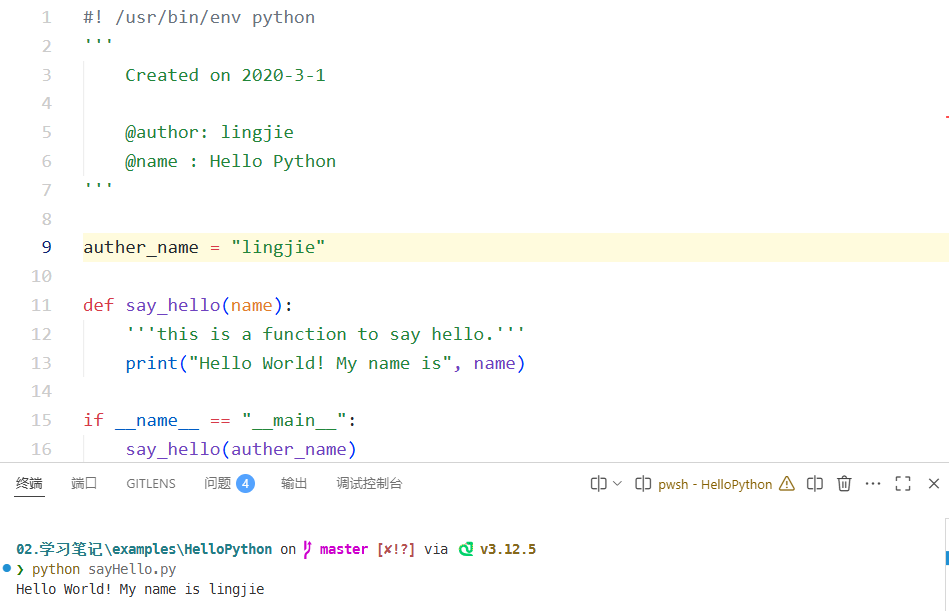
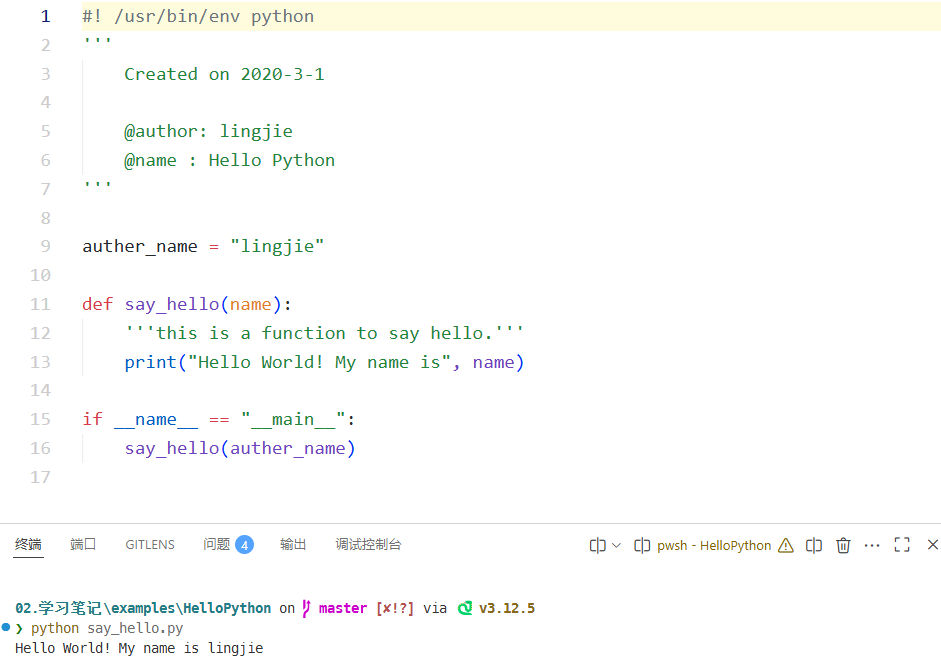
'开始重新整理Python学习笔记，第三天'

diff --git a/02_编程技术研究/00.计算机语言/01.编程语言/Python/02.学习笔记/Python 学习笔记：基本语法.md b/02_编程技术研究/00.计算机语言/01.编程语言/Python/02.学习笔记/Python 学习笔记：基本语法.md
@@ -159,13 +159,17 @@ def say_hello(name):
 
 上述代码在 VS Code 编辑器中的显示效果如下图所示，读者可以看到，我们在`say-hello`函数的作用域中新增了一个名为`message`的变量，给它赋值了一个比较长的字符串，虽然编辑器将其自动换行成了三行内容，但它们在逻辑上依然被视为同一行内容来输出的。
 
-![Python 中的逻辑行](./img/helloPython2.png)
+![Python 中的逻辑行](img/lengthString.png)
 
 ## 对象与数据类型
 
-现在，让我们再来重点关注一下变量的数据类型。在计算机中，如果程序想要对某一块内存空间中数据进行存储和操作，首先要明确的是该空间内数据的存储方式和操作方式。譬如，变量中存储的是数据本身还是数据在内存中的位置？这将决定着这些数据的复制方式。再譬如，变量中的数据可以执行什么操作？是算术运算还是逻辑判断，亦或是文本处理？这就需要我们对这些内存空间中的数据，即变量的值进行归类，譬如用来做算术运算的数据归为一类，用于文本处理的数据则归为另一类，在编程术语上，这些归类被人们约定俗成地称之为“类型（type）”。简而言之，就是变量中的值所属的类型决定了该变量的存储形式及其可以执行的操作。下面，我们具体介绍一下在 Python 中可以使用的数据类型，先从该语言支持的 6 大基本数据类型开始，具体如下。
+现在，让我们再回过头来重点关注一下变量中可以存储的数据类型。在计算机中，如果程序想要对某一块内存空间中数据进行存储和操作，首先要明确的是该空间内数据的存储形式和操作方法。譬如，变量中存储的是数据本身还是数据在内存中的位置？这将决定着这些数据的复制方式。再譬如，变量中的数据可以执行什么操作？是算术运算还是逻辑判断，亦或是文本处理？这就需要我们对这些内存空间中的数据，即变量的值进行归类，譬如用来做算术运算的数据归为一类，用于文本处理的数据则归为另一类，在编程术语上，这些归类被人们约定俗成地称之为“类型（type）”。简而言之，就是变量中的值所属的类型决定了该变量的存储形式及其可以执行的操作。下面，我们具体介绍一下在 Python 中可以使用的数据类型，先从该语言支持的基本数据类型开始。
 
-- **`number`类型**：即数字类型，Python 3.x 主要支持 4 种数字类型的数据，它们分别是：`int`（即整数类型）、`float`（即浮点类型）、`bool`（即布尔类型）、`complex`（即复数类型）。这些数据类型主要用于执行各种数学运算，包括加法、减法、除法、整除、取余、乘法和乘方等，下面是一些操作示例。
+### 基本数据类型
+
+在编程语言中，基本数据类型指的是语言本身内置的、可以直接使用的数据类型。Python 语言中支持的基本数据类型主要有以下六种：
+
+- **`number`类型**：即数字类型，Python 主要支持的数字类型分别是：`int`（整数类型）、`float`（浮点类型）、`bool`（布尔类型）、`complex`（复数类型）。这些数据类型可用于执行各种数学运算，包括加法、减法、除法、整除、取余、乘法和乘方等，下面是一些操作示例：
 
     ```python
     print(3+2)         # 加法运算，输出结果是 5
@@ -179,73 +183,72 @@ def say_hello(name):
 
     *值得一提的是*，Python 在 3.x 版本之后采用了非固定大小的`int`类型，这让它可以自动适应任意大小的整数值（唯一的限制是计算机的可用内存量）。在处理较小的整数时，Python 会使用计算机底层的`int`类型来表示它们。当需要处理较大的整数时，Python 就会自动转换为占用位数更多的表示形式。当然，为了能对较大的整数值执行运算，Python 必须要将这些运算拆解成若干个能直接交给计算机硬件处理的小型运算单元，其拆解过程与我们用笔算的方式来进行长除法运算非常类似。尽管这种运算方式的效率并不高（因为这需要执行更多步骤），但是它们允许 Python 将`int`类型扩展至任意大小。
 
-- **`string`类型**：即字符串类型。在 Python 语言中，字符串就是在单引号、双引号和三引号之间的文字，这些文字中中所有的空格和制表符都照原样保留。在三种字符串的表示方式中，单引号与双引号的作用在大多数时候是一样的，只有当字符串本身的内容中包含单引号时，它就只能用双引号或三引号来表示。而三引号则通常用于表示包含多行文字的字符串，同样的，我们也可以在三引号中自由使用单引号和双引号。在编程活动中，字符串类型的数据主要用于执行各种文本处理操作，包括文本的输入、输出、存储、拼接和截取等，下面是一些操作示例。
+- **`string`类型**：即字符串类型。在 Python 语言中，字符串类型的数据就是由一对单引号、双引号或三引号括住的一段文本信息，这段文本中所有的空格和制表符都照原样保留。在三种字符串的表示方式中，单引号与双引号的作用在大多数时候是一样的，只有当字符串本身的内容中包含单引号时，它就只能用双引号或三引号来表示。而三引号则通常用于表示包含多行文字的字符串，同样的，我们也可以在三引号中自由使用单引号和双引号。在编程活动中，字符串类型的数据主要用于执行各种文本处理操作，包括文本的输入、输出、存储、拼接和截取等，下面是一些操作示例：
 
     ```python
-    name = "lingjie"     # 存储一般的字符串数据
-    I_am = "I'm "        # 存储带单引号的字符串数据
-    # 储存包含多行内容的字符串数据
+    name = "lingjie"                   # 存储一般的字符串数据
+    I_am = "I'm "                      # 存储带单引号的字符串数据
     other = '''
     age:  42
     job: writer
-    '''
-    message = I_am + name + other # 拼接字符串数据并存储
+    '''                                # 存储多行字符串数据
+    message = I_am + name + other      # 拼接字符串数据并存储
     
-    print(message) # 输出变量 message 中存储的字符串数据
-    print(message[0:11]) # 截取变量中的某一段字符串并输出
+    print(message)                     # 输出变量 message 中存储的字符串数据
+    print(message[0:11])               # 截取变量中的某一段字符串并输出
     print(r"Newlines are indicated by \n") # 忽略字符串中的转义字符并输出
     ```
 
     另外，如果读者想要让 Python 运行时环境忽略字符串数据中所有的转义字符，也可以在表示字符串的单引号或双引号之前加一个前缀`r`。例如在上面的最后一行代码中，如果我们希望的是原样输出下面字符串中的换行符`\n`，而不是让它发挥换行效果。
 
-- **`list`类型**：即列表类型。在 Python 语言中，列表类型的对象可以是其他任意对象的有序集合，这些对象会被表示成由一对中括号表示的一系列可按某种顺序排列的元素，这些元素之间用逗号隔开。列表中的元素可以是 Python 中可以使用的任意数据类型，既可以是这里正在介绍的 6 大基本数据类型，也可以之后我们通过自定义或者引入第三方库获得的扩展数据类型。在基于 Python 的编程中，列表类型的数据主要用于执行面向有序集合的数据操作，包括数据成批量地增、删、改、查以及遍历等，下面是一些操作示例。
+- **`list`类型**：即列表类型。在 Python 语言中，列表类型的数据就是由一对中括号括住的对象序列，序列中的这些对象彼此之间需用逗号隔开，通常被称为列表的元素。这些元素可以是 Python 支持的任意数据类型，既可以是这里正在介绍的六大基本数据类型，也可以是我们稍后要介绍的自定义类型，或者通过引入第三方库获得的扩展数据类型。在基于 Python 的编程中，列表类型的数据可用于执行针对一整个元素序列的相关操作，例如成批量地执行增、删、改、查以及排序等操作，下面是一些操作示例：
 
     ```python
-    list_1 = [                  # 将三个对象存储为一个列表类型的数据
-        10,                     # 第一个列表元素为数字类型的数据
-        "string data",          # 第二个列表元素为字符串类型的数据
-        [1, 2, 3]               # 第三个列表元素为列表类型的数据
+    list_1 = [                  # 将三个不同类型的数据存储为列表的元素
+        10,                     # 列表的第一个元素为数字类型的数据
+        "string data",          # 列表的第二个元素为字符串类型的数据
+        [1, 2, 3]               # 列表的第三个元素为列表类型的数据
     ]
-    print(list_1)               # 输出整个列表中的数据
-    print(list_1[1])            # 用列表索引的方式输出指定的元素
-    # 注意，列表元素的索引值是从 0 开始的，所以这里输出的是第二个元素
-    list_1[0] = 100             # 修改制定的元素
+    print(list_1)               # 输出列表中的所有元素
+    print(list_1[1])            # 输出索引值为 1 的元素
+    # 请注意：列表的索引值是从 0 开始的，所以这里输出的是第二个元素
+    list_1[0] = 100             # 将索引值为 0 的元素修改为 100
     list_1.remove([1,2,3])      # 找到并删除列表中的第三个元素
-    print(list_1)               # 重新输出整个列表中的数据
+    print(list_1)               # 重新输出列表中的所有元素
     list_1.append([7, 8, 9])    # 在列表末尾重新添加元素
-    print(list_1)               # 重新输出整个列表中的数据
+    print(list_1)               # 重新输出列表中的所有元素
     ```
 
-- **`tuple`类型**：即元组类型。在 Python 语言中，元组类型的对象可以被视为一个只读的列表类型数据。元组中的元素也可以是任意类型的数据对象，这些对象会被放置在一对小括号中，并用逗号隔开。由于元组中的元素是不可修改的，所以该数据类型通常用于执行一次性的批量数据存储以及各种查找、遍历等只读操作，下面是一些操作示例。
+- **`tuple`类型**：即元组类型。在 Python 语言中，元组类型的数据可以被视为一个只读的列表。元组中的元素也可以是任意类型的数据，这些元素会被放置在一对小括号中，并用逗号隔开。由于元组中的元素是不可修改的，所以该数据类型通常用于执行一次性的批量数据存储以及各种查找、遍历等只读操作，下面是一些操作示例:
 
     ```python
-    tuple_1 = ("abcd", 706, "lyy", 898, 5.2)    # 一次性地存储一些数据
-    print(tuple_1)                              # 输出整个元组中的数据
-    print(tuple_1[0])                           # 用索引的方式输出指定的元素 
-    print(tuple_1[1:3])                         # 用索引区间的方式输出元组的某个子序列
+    tuple_1 = ("abcd", 706, "lyy", 898, 5.2)    # 将一些数据存储为元组的元素
+    print(tuple_1)                              # 输出元组中的所有元素
+    print(tuple_1[0])                           # 输出索引值为 0 的元素 
+    print(tuple_1[1:3])                         # 使用切片操作指定要输出的元组子序列
     ```
 
-- **`sets`类型**：即集合类型。在 Python 语言中，集合类型的对象可以被视为一个元素不能重复的列表类型数据。集合中的元素被放置在一对大括号中，并用逗号隔开（如果要创建的是空集合，就需要调用`set()`函数来完成）。由于集合中的元素是不能重复的，所以该数据类型通常用于在执行数据存储时需要删除冗余数据的操作，下面是一些操作示例。
+- **`sets`类型**：即集合类型。在 Python 语言中，集合类型的数据可以被视为一个元素不能重复的列表。集合中的元素被放置在一对大括号中，并用逗号隔开（如果要创建的是空集合，就需要调用`set()`函数来完成）。由于集合中的元素是不能重复的，所以该数据类型通常用于在执行数据存储时需要删除冗余数据的操作，下面是一些操作示例：
 
     ```python
-    set_1 = {18,19,18,20,21,20} # 如果我们存储的数组存在重复
-    print(set_1)          # 读者就会看到相同的元素只会被保留一个
+    set_1 = {18,19,18,20,21,20} # 如果存储到集合中的元素存在重复
+    print(set_1)                # 我们就会看到相同的元素只会被保留一个
     ```
 
-- **`dictionary`类型**：即字典类型。在 Python 语言中，字典类型的对象可以被视为一个元素为键值对的列表类型数据。字典中的每个元素都必须是一个键值对。它们将会被放置在一对大括号中，并用逗号隔开。该数据类型通常用于执行一些键值查找相关的操作，下面是一些操作示例。
+- **`dictionary`类型**：即字典类型。在 Python 语言中，字典类型的数据可以被视为一个元素为`[键]:[值]`结构的列表。字典中的每个元素都必须是一个`[键]:[值]`结构的数据，它们将会被放置在一对大括号中，并用逗号隔开。该数据类型通常用于执行一些键值查找相关的操作，下面是一些操作示例：
 
     ```python
-    map_1 = { # 将两个键值对元素存储为一个字典类型的数据
-        "name" : "lingjie", # name 是键，lingjie 是值
+    map_1 = { # 将两个[键]:[值]结构的数据存储为字典的元素
+        "name" : "lingjie",    # name 是键，lingjie 是值
         "age" : "25"           # age 是键，25 是值
     }
-    print(map_1) # 输出字典中的数据
-    map_1["sex"] = "boy" # 添加一个键为 sex，值为 boy 的元素 
-    print(map_1) # 重新输出字典中的数据
+    print(map_1)               # 输出字典中的所有元素
+    map_1["sex"] = "boy"       # 添加一个键为 sex，值为 boy 的元素 
+    print(map_1)               # 重新输出字典中的所有元素
 
-    # 字典删除数据时，可以使用 del 函数
-    del map_1["age"] # 删除键为 age 的元素
-    print(map_1) # 重新输出字典中的数据
+    # 如果想删除字典中的指定元素时，可以使用 del 语句来完成
+    del map_1["age"]           # 删除键为 age 的元素
+    print(map_1)               # 重新输出字典中的所有元素
     ```
 
 ### 自定义类型
@@ -254,6 +257,9 @@ def say_hello(name):
 
 ```python
 class [类型名称]([父类名称]):
+    '''
+    [类型的功能说明]
+    '''
     [类型的属性和方法]
 ```
 

diff --git a/02_编程技术研究/00.计算机语言/01.编程语言/Python/02.学习笔记/Python 学习笔记：编程环境.md b/02_编程技术研究/00.计算机语言/01.编程语言/Python/02.学习笔记/Python 学习笔记：编程环境.md
@@ -90,7 +90,7 @@
 
 1. 在自己的计算机设备上设置一个用于存放演示代码的目录（在这里即`examples`目录），并在该目录下创建一个名为`HelloPython`的目录。
 
-2. 使用 VS Code 编辑器打开刚刚创建的`HelloPython`目录，并在该目录下创建一个名为的`sayHello.py`文件，以作为本示例的程序入口文件，然后在其中编写如下代码：
+2. 使用 VS Code 编辑器打开刚刚创建的`HelloPython`目录，并在该目录下创建一个名为的`say_hello.py`文件，以作为本示例的程序入口文件，然后在其中编写如下代码：
 
     ```python
     #! /usr/bin/env python
@@ -111,6 +111,6 @@
         say_hello(auther_name)
     ```
 
-3. 在保存上述文件之后，打开 VS Code 编辑器中集成的终端环境并进入到`HelloPython`目录下，然后执行`python sayHello.py`命令运行这个 Hello World 程序。如果该程序在终端中输出了如下图所示的信息，就说明我们已经成功配置好了使用 Python 语言的编程工具。
+3. 在保存上述文件之后，打开 VS Code 编辑器中集成的终端环境并进入到`HelloPython`目录下，然后执行`python say_hello.py`命令运行这个 Hello World 程序。如果该程序在终端中输出了如下图所示的信息，就说明我们已经成功配置好了使用 Python 语言的编程工具。
 
     ![Hello World 运行结果](img/helloPython.png)
